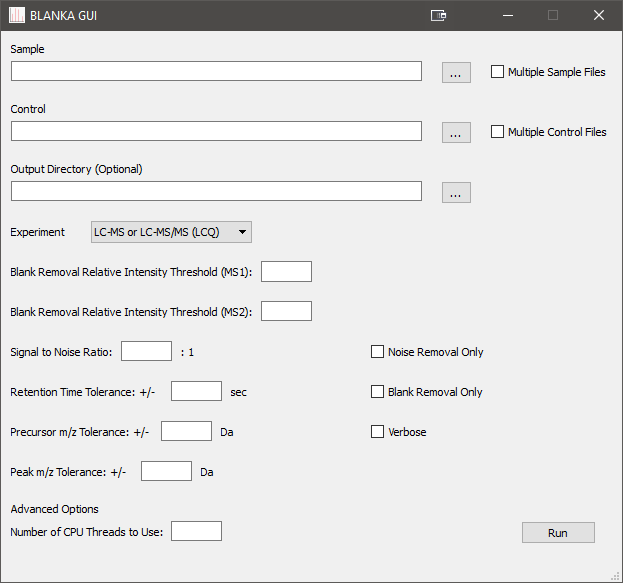
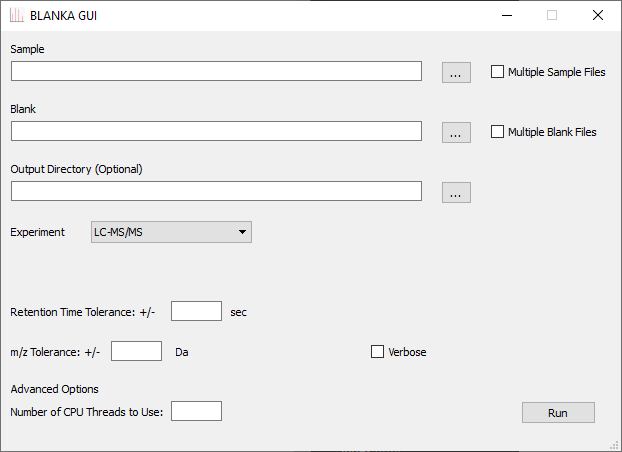
update blanka gui instructions

diff --git a/blanka/documentation/gui/index.html b/blanka/documentation/gui/index.html
@@ -29,9 +29,9 @@
         <article>
             <h1>Run BLANKA GUI</h1>
             <ol>
-                <li>Run <code>run_blanka_gui.bat</code> file to start BLANKA GUI.</li>
+                <li>Run the <code>blanka_gui.exe</code> file to start BLANKA GUI.</li>
                 <img src="/images/gui_01.png" title="BLANKA GUI" alt="BLANKA GUI" align="center"/>
-                <li>Click on the <code>...</code> box next to the <code>Sample</code> or <code>Control</code> lines to select files/directories to be processed. If <code>Multiple Sample Files</code>/<code>Multiple Control Files</code> is unchecked, you will be prompted to select a single file. If <code>Multiple Sample Files</code>/<code>Multiple Control Files</code> is checked, you will be prompted to select a directory containing one or more files. Files that are not in <code>.mzXML</code> format will be converted to <code>.mzXML</code> format using MSConvert.</li>
+                <li>Click on the <code>...</code> box next to the <code>Sample</code> or <code>Blank</code> lines to select files/directories to be processed. If <code>Multiple Sample Files</code>/<code>Multiple Control Files</code> is unchecked, you will be prompted to select a single file. If <code>Multiple Sample Files</code>/<code>Multiple Control Files</code> is checked, you will be prompted to select a directory containing one or more files. Files that are not in <code>.mzXML</code> format will be converted to <code>.mzXML</code> format using MSConvert.</li>
                 <img src="/images/gui_02.png" title="BLANKA GUI" alt="BLANKA GUI" align="center"/>
                 <p></p>
                 <img src="/images/gui_03.png" title="BLANKA GUI" alt="BLANKA GUI" align="center"/>
@@ -39,7 +39,7 @@
                 <img src="/images/gui_04.png" title="BLANKA GUI" alt="BLANKA GUI" align="center"/>
                 <p></p>
                 <img src="/images/gui_05.png" title="BLANKA GUI" alt="BLANKA GUI" align="center"/>
-                <li>Choose the type of data (LCQ, QTOF, or MALDI-TOF dried droplet) that will be procesed under the <code>Experiment</code> dropdown menu</li>
+                <li>Choose the type of data that will be procesed under the <code>Experiment</code> dropdown menu. Currently, only LC-MS/MS is supported</li>
                 <img src="/images/gui_06.png" title="BLANKA GUI" alt="BLANKA GUI" align="center"/>
                 <li>Change any other parameters relating to thresholds, tolerances, and any other parameters as desired. For a full description of all parameters, refer to the <a href="/blanka/documentation/command_line/index.html">arguments table</a>.</li>
                 <img src="/images/gui_07.png" title="BLANKA GUI" alt="BLANKA GUI" align="center"/>
